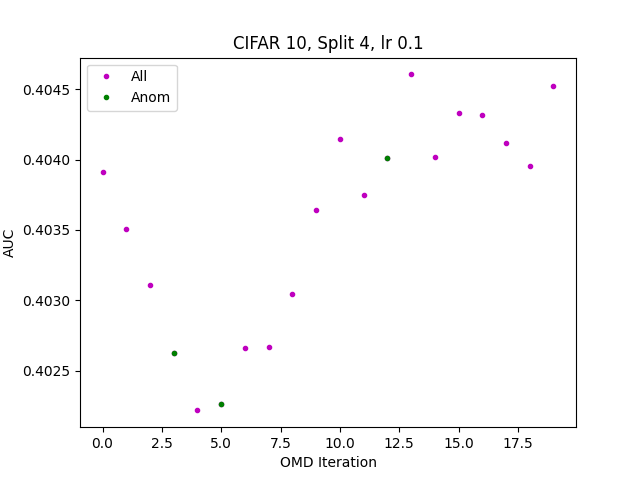
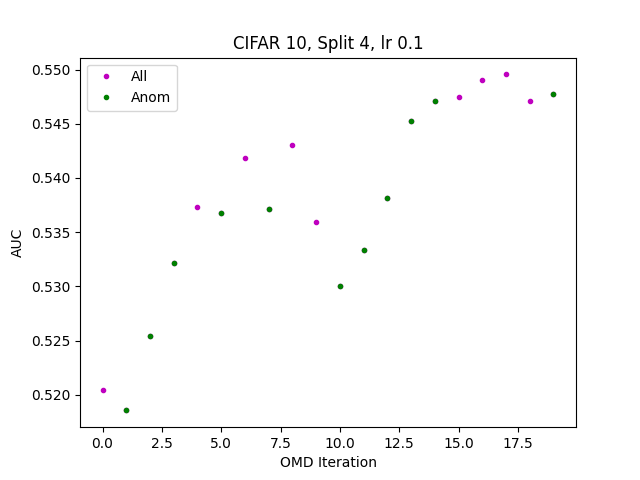
first 2000 iters random strategy

diff --git a/oracle_omd.py b/oracle_omd.py
@@ -707,7 +707,7 @@ def main():
          
 	
              # Note that the train_latent_df is used for determining the initial weight vector
-             w, clf_omd, wprior = omd(train_latent_df, val_latent_df, anom_classes, j, strategy="max", test_latent_data=test_latent_df, learning_rate=learning_rates[i])
+             w, clf_omd, wprior = omd(train_latent_df, val_latent_df, anom_classes, j, strategy="random", test_latent_data=test_latent_df, learning_rate=learning_rates[i])
 
          	
          	
@@ -788,7 +788,7 @@ def main():
              #X = data_df.drop(columns=['label'])
          
              # Note that the train_latent_df is used for determining the initial weight vector
-             T_vec, auc_vec, anom_iters, anom_auc, oracle_labels = omd_test(train_latent_df, val_latent_df, anom_classes, j, kn_unkn_test_loda_tx, test_target, wprior, strategy="max", learning_rate=learning_rates[i])
+             T_vec, auc_vec, anom_iters, anom_auc, oracle_labels = omd_test(train_latent_df, val_latent_df, anom_classes, j, kn_unkn_test_loda_tx, test_target, wprior, strategy="random", learning_rate=learning_rates[i])
             
              # Write results to file for further analysis (anomaly isolation, etc.)
              auc_omd_iters_filename = os.path.join(MODEL_DATA_DIRECTORY, 'auc_omd_iters_{}_lr{}.npy'.format(j,i))              
